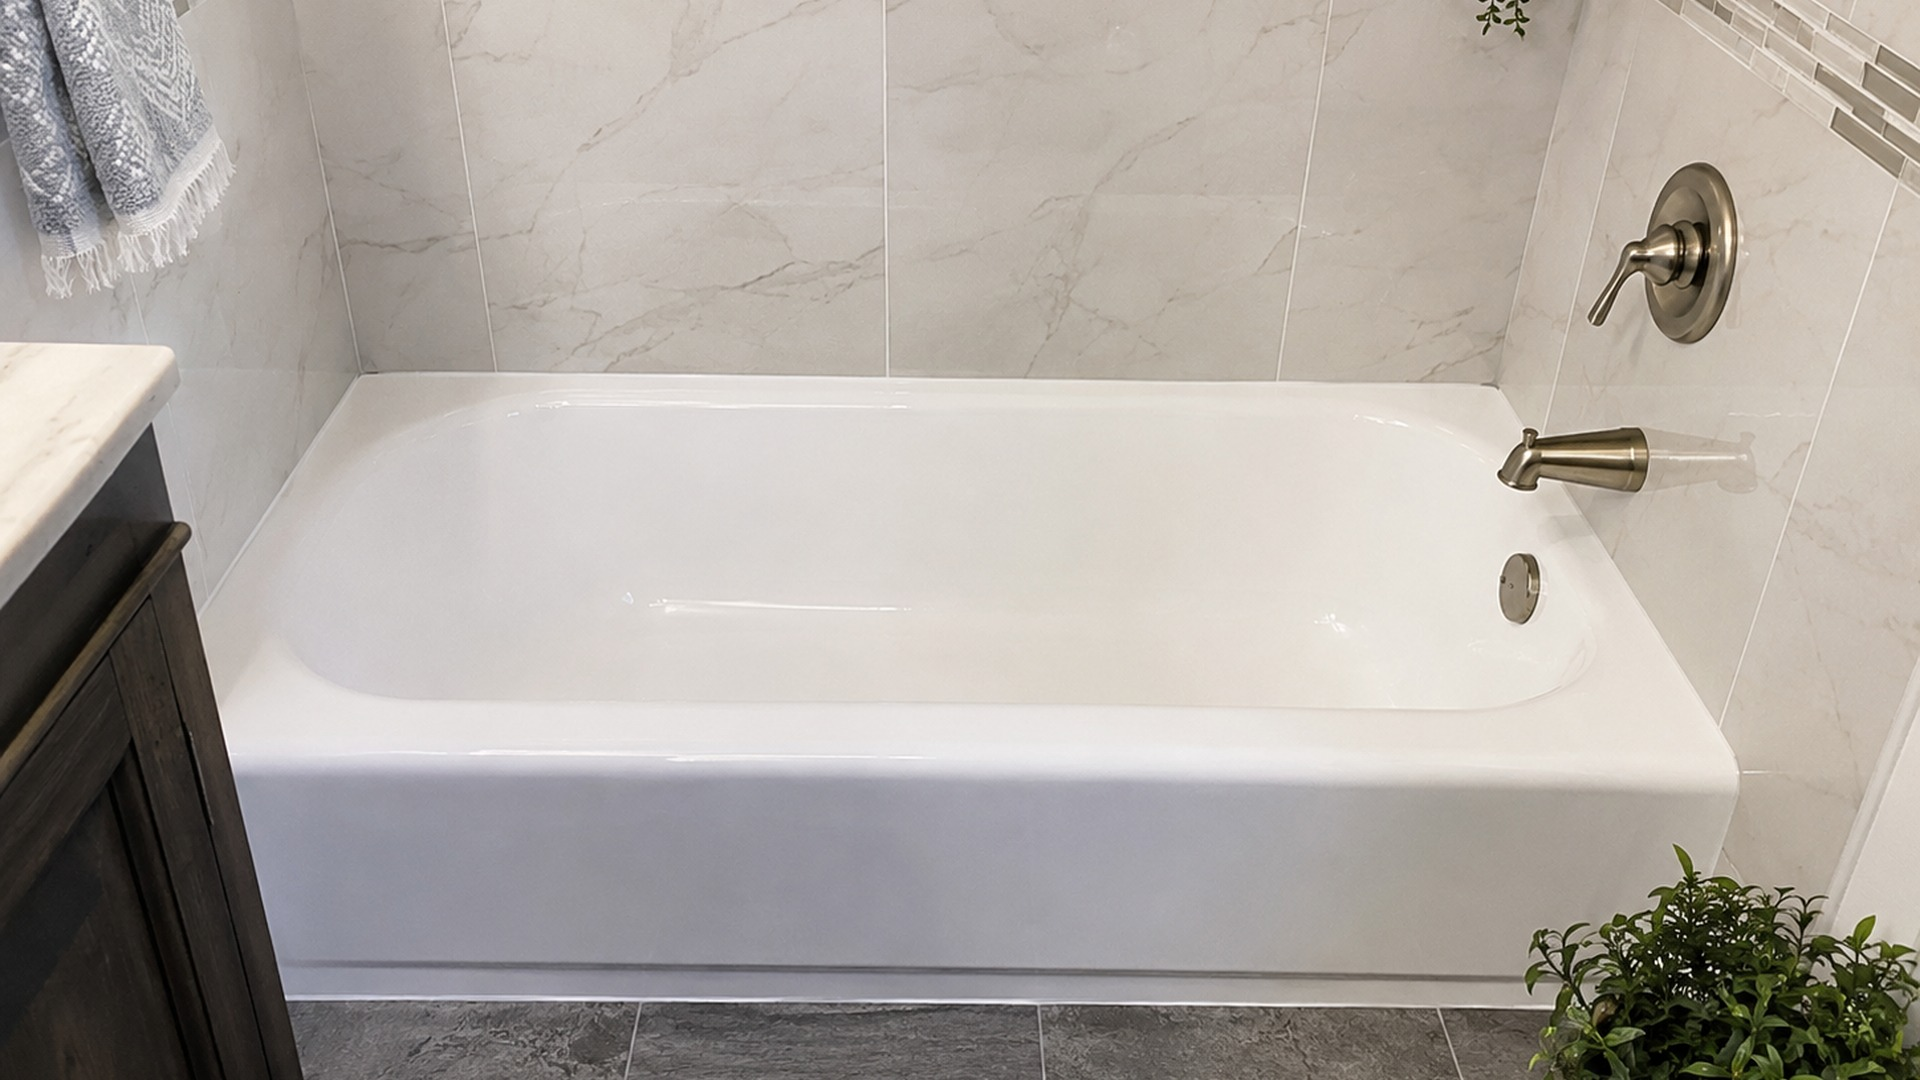
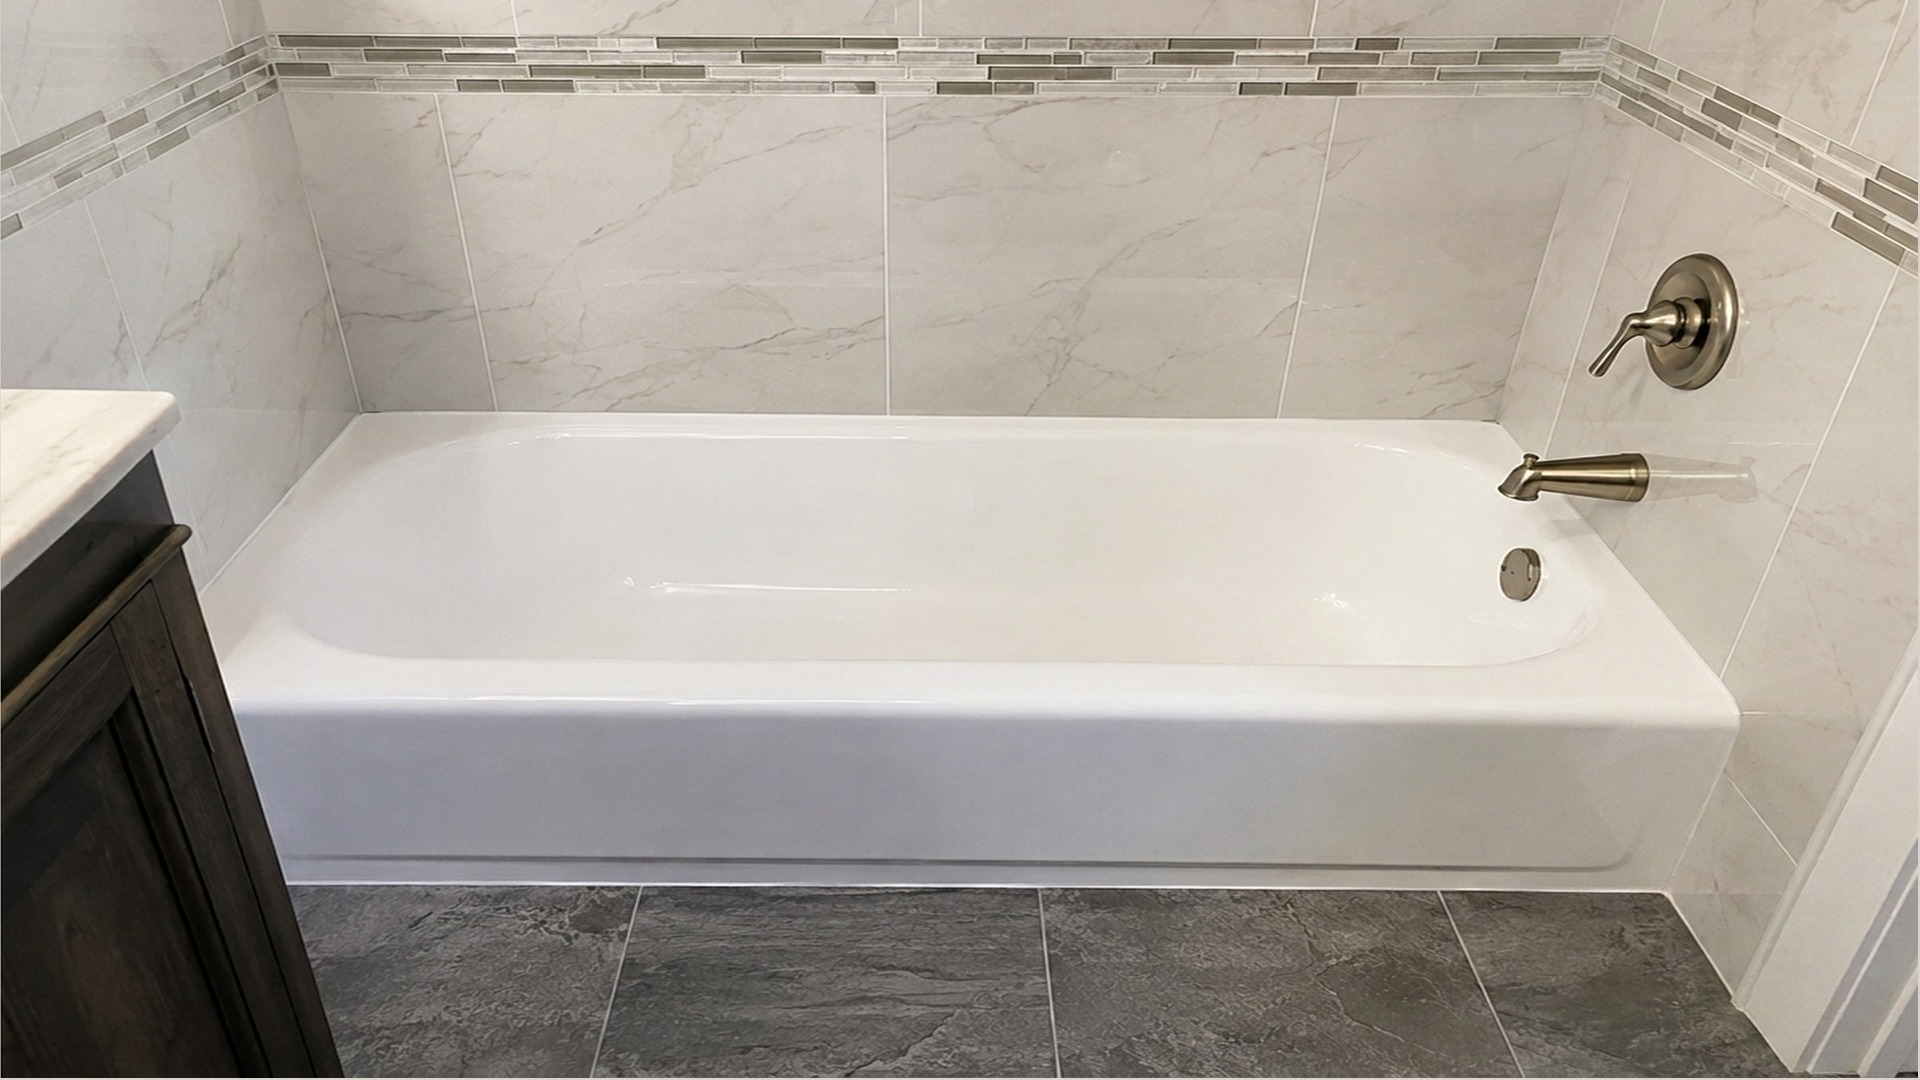
Update Tub Refinishing after photo to after1r.png.jpeg

diff --git a/index.html b/index.html
@@ -191,8 +191,8 @@
             <!-- Slide 1 -->
             <div class="ba-slide active" data-index="0">
               <div class="ba-comparison" data-before="images/before-1.jpg" data-after="images/after-1.jpg">
-                <img class="ba-after" src="images/after-1.jpg?v=7" alt="After: bathtub refinishing by Bath Professional">
-                <img class="ba-before" src="images/before-1.jpg?v=7" alt="Before: worn bathtub prior to Bath Professional refinishing">
+                <img class="ba-after" src="images/after-1.jpg?v=17" alt="After: bathtub refinishing by Bath Professional">
+                <img class="ba-before" src="images/before-1.jpg?v=17" alt="Before: worn bathtub prior to Bath Professional refinishing">
                 <div class="ba-handle">
                   <div class="ba-handle-line"></div>
                   <div class="ba-handle-circle">